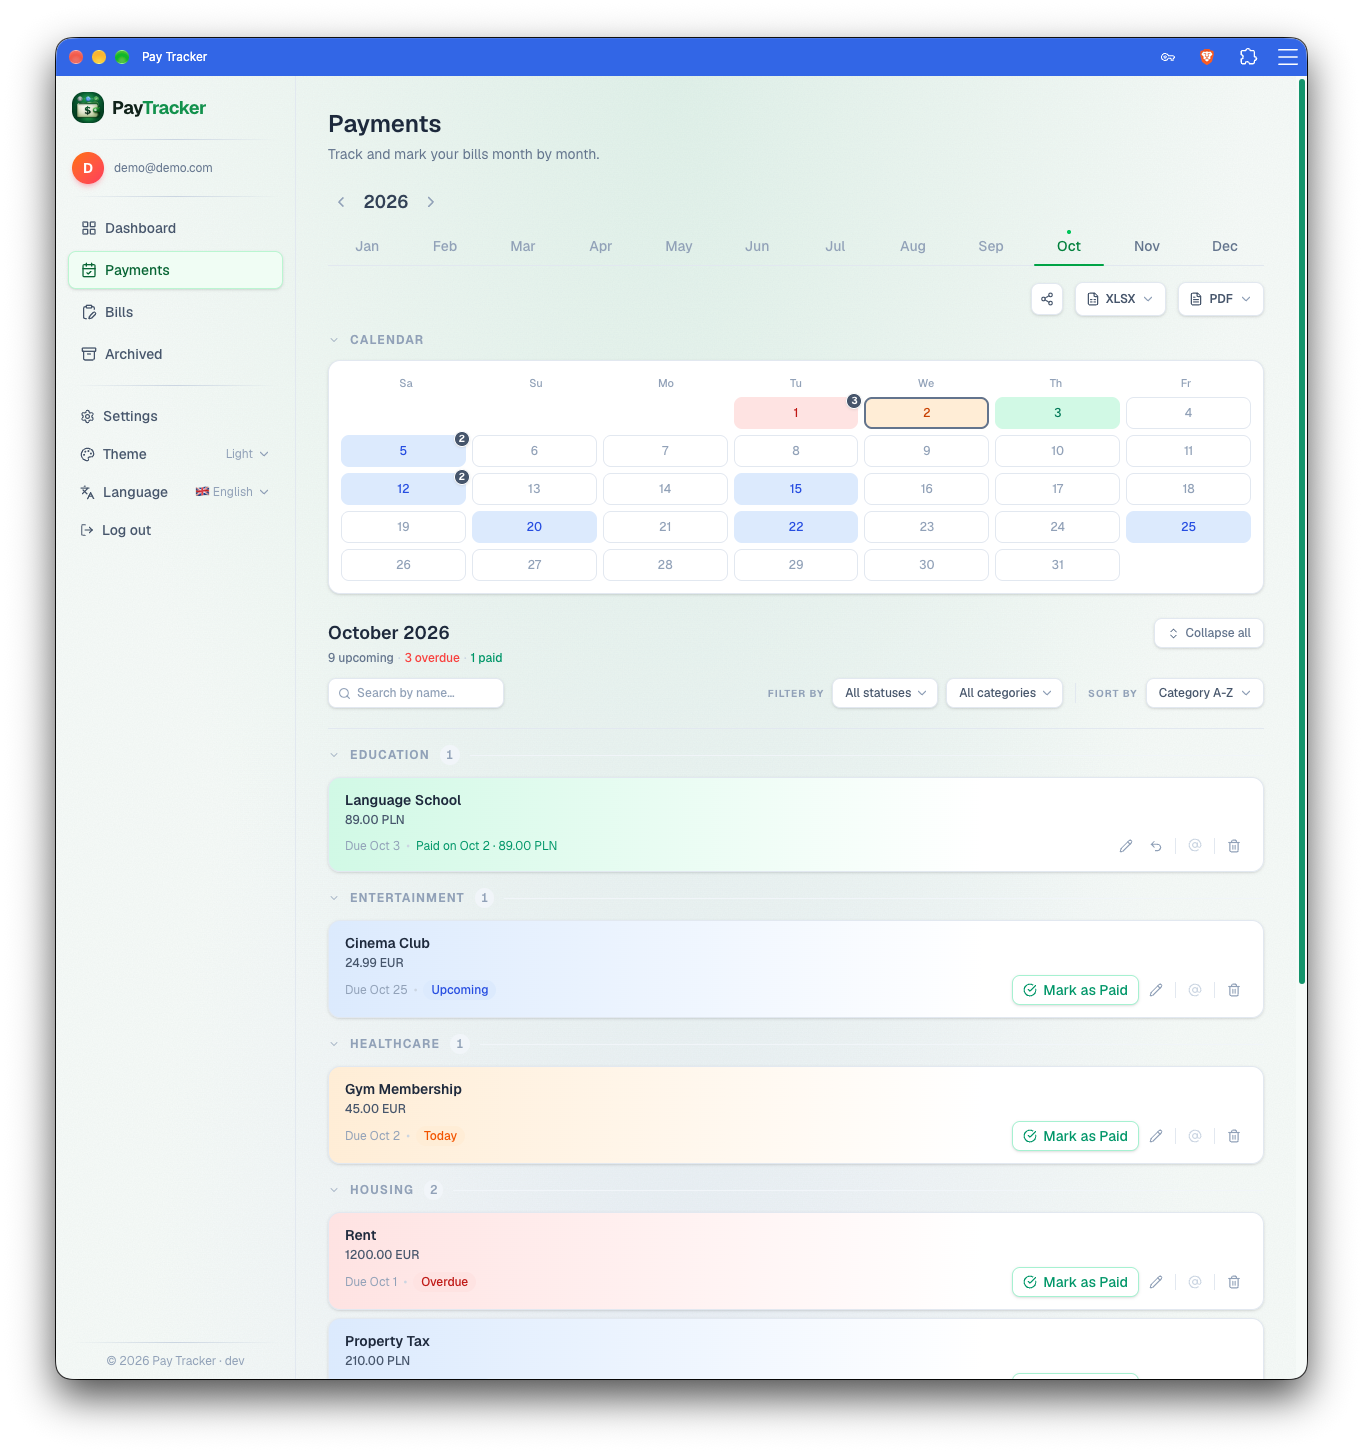
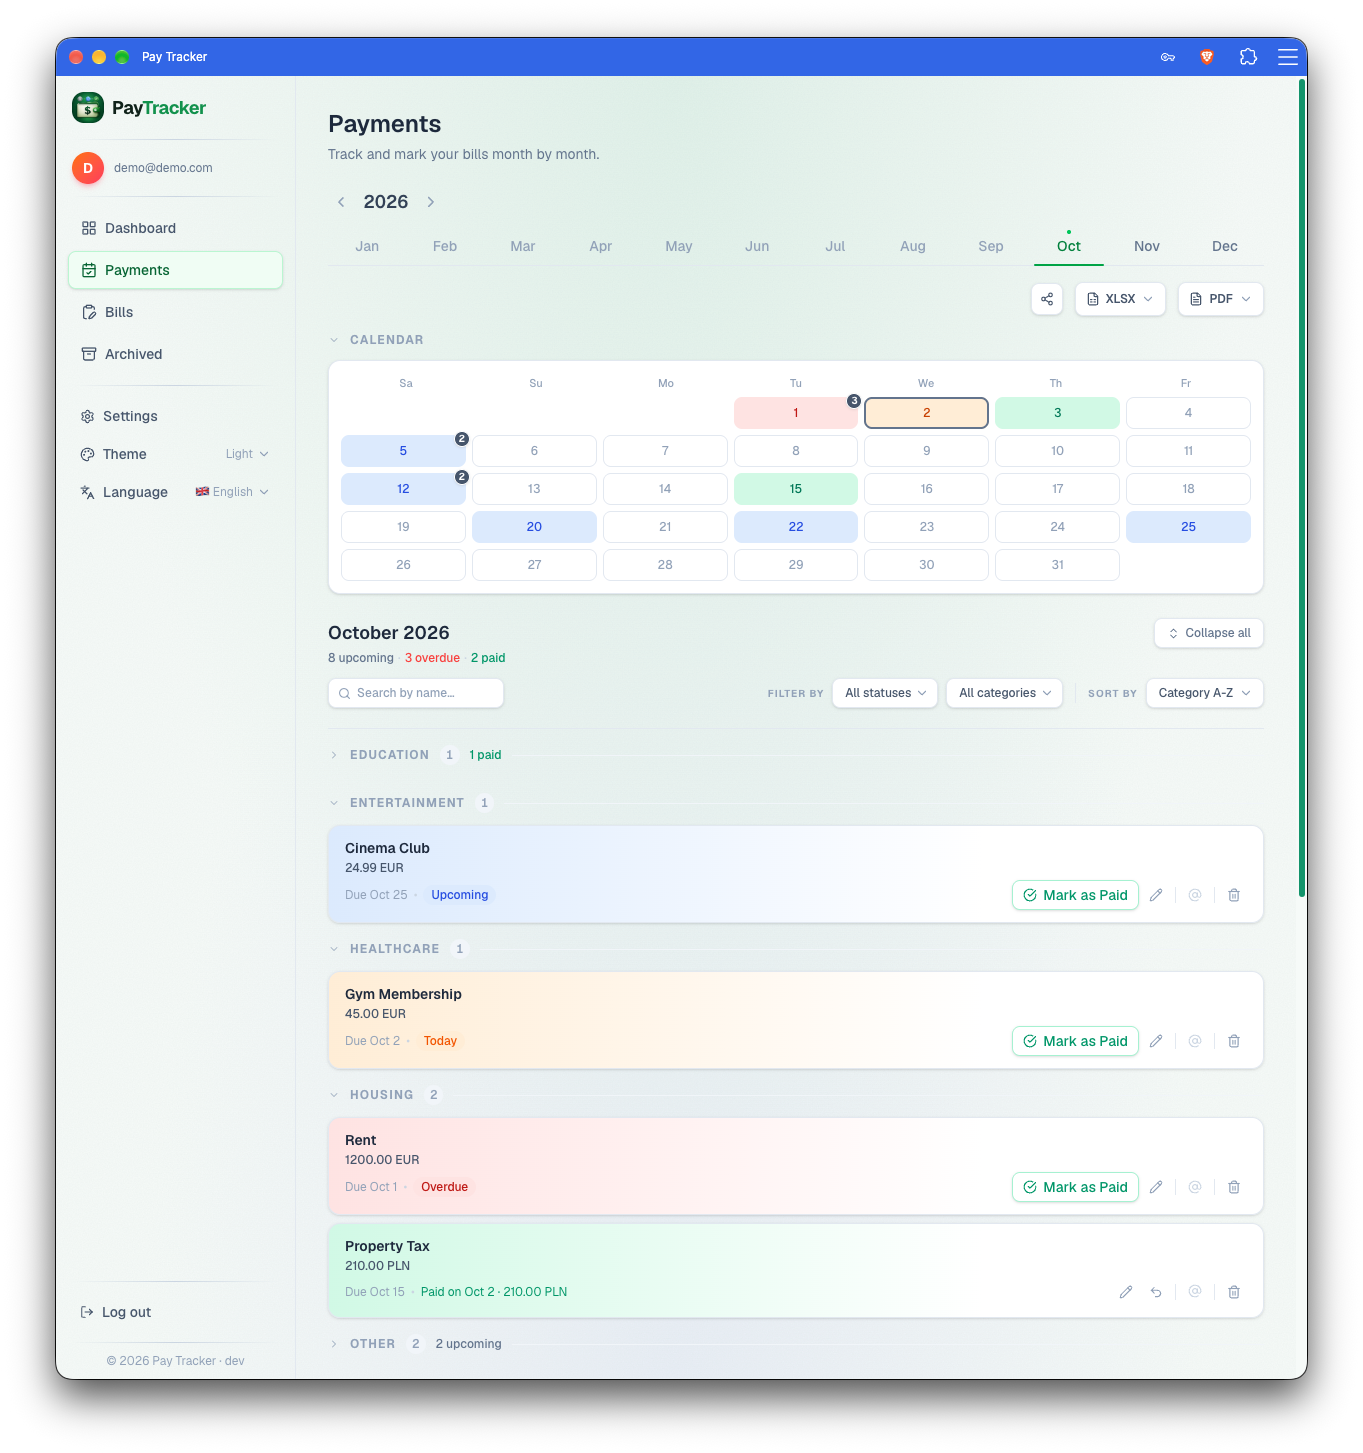
fix(layout): move logout to sidebar bottom as a plain menu row

diff --git a/frontend/src/app/dashboard/layout.tsx b/frontend/src/app/dashboard/layout.tsx
@@ -141,6 +141,13 @@ export default function DashboardLayout({
           </Link>
           <ThemeToggle />
           <LanguageToggle />
+        </div>
+
+        <div className="flex-1" />
+
+        <div className="mx-4 h-px bg-gradient-to-r from-transparent via-slate-300 to-transparent dark:via-slate-600" />
+
+        <div className="p-3">
           <button
             data-logout-trigger
             onClick={logout}
@@ -150,8 +157,6 @@ export default function DashboardLayout({
             {t("logOut")}
           </button>
         </div>
-
-        <div className="flex-1" />
 
         <div className="mx-4 h-px bg-gradient-to-r from-transparent via-slate-300 to-transparent dark:via-slate-600" />
 
